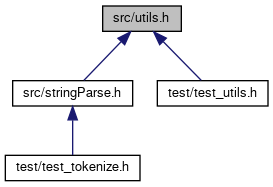
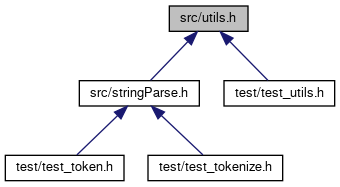
deploy: d19eb137d677fa6cfca0976ccbeda235902dd45f

diff --git a/test__token_8h_source.html b/test__token_8h_source.html
@@ -1,0 +1,104 @@
+<!DOCTYPE html PUBLIC "-//W3C//DTD XHTML 1.0 Transitional//EN" "https://www.w3.org/TR/xhtml1/DTD/xhtml1-transitional.dtd">
+<html xmlns="http://www.w3.org/1999/xhtml">
+<head>
+<meta http-equiv="Content-Type" content="text/xhtml;charset=UTF-8"/>
+<meta http-equiv="X-UA-Compatible" content="IE=9"/>
+<meta name="generator" content="Doxygen 1.9.1"/>
+<meta name="viewport" content="width=device-width, initial-scale=1"/>
+<title>C Project Template: test/test_token.h Source File</title>
+<link href="tabs.css" rel="stylesheet" type="text/css"/>
+<script type="text/javascript" src="jquery.js"></script>
+<script type="text/javascript" src="dynsections.js"></script>
+<link href="search/search.css" rel="stylesheet" type="text/css"/>
+<script type="text/javascript" src="search/searchdata.js"></script>
+<script type="text/javascript" src="search/search.js"></script>
+<link href="doxygen.css" rel="stylesheet" type="text/css" />
+</head>
+<body>
+<div id="top"><!-- do not remove this div, it is closed by doxygen! -->
+<div id="titlearea">
+<table cellspacing="0" cellpadding="0">
+ <tbody>
+ <tr style="height: 56px;">
+  <td id="projectalign" style="padding-left: 0.5em;">
+   <div id="projectname">C Project Template
+   </div>
+  </td>
+ </tr>
+ </tbody>
+</table>
+</div>
+<!-- end header part -->
+<!-- Generated by Doxygen 1.9.1 -->
+<script type="text/javascript">
+/* @license magnet:?xt=urn:btih:cf05388f2679ee054f2beb29a391d25f4e673ac3&amp;dn=gpl-2.0.txt GPL-v2 */
+var searchBox = new SearchBox("searchBox", "search",false,'Search','.html');
+/* @license-end */
+</script>
+<script type="text/javascript" src="menudata.js"></script>
+<script type="text/javascript" src="menu.js"></script>
+<script type="text/javascript">
+/* @license magnet:?xt=urn:btih:cf05388f2679ee054f2beb29a391d25f4e673ac3&amp;dn=gpl-2.0.txt GPL-v2 */
+$(function() {
+  initMenu('',true,false,'search.php','Search');
+  $(document).ready(function() { init_search(); });
+});
+/* @license-end */</script>
+<div id="main-nav"></div>
+<!-- window showing the filter options -->
+<div id="MSearchSelectWindow"
+     onmouseover="return searchBox.OnSearchSelectShow()"
+     onmouseout="return searchBox.OnSearchSelectHide()"
+     onkeydown="return searchBox.OnSearchSelectKey(event)">
+</div>
+
+<!-- iframe showing the search results (closed by default) -->
+<div id="MSearchResultsWindow">
+<iframe src="javascript:void(0)" frameborder="0" 
+        name="MSearchResults" id="MSearchResults">
+</iframe>
+</div>
+
+<div id="nav-path" class="navpath">
+  <ul>
+<li class="navelem"><a class="el" href="dir_13e138d54eb8818da29c3992edef070a.html">test</a></li>  </ul>
+</div>
+</div><!-- top -->
+<div class="header">
+  <div class="headertitle">
+<div class="title">test_token.h</div>  </div>
+</div><!--header-->
+<div class="contents">
+<div class="fragment"><div class="line"><a name="l00001"></a><span class="lineno">    1</span>&#160;<span class="preprocessor">#ifndef TEST_TOKEN_H</span></div>
+<div class="line"><a name="l00002"></a><span class="lineno">    2</span>&#160;<span class="preprocessor">#define TEST_TOKEN_H</span></div>
+<div class="line"><a name="l00003"></a><span class="lineno">    3</span>&#160; </div>
+<div class="line"><a name="l00004"></a><span class="lineno">    4</span>&#160;<span class="preprocessor">#include &quot;acutest.h&quot;</span></div>
+<div class="line"><a name="l00005"></a><span class="lineno">    5</span>&#160;<span class="preprocessor">#include &quot;stringParse.h&quot;</span></div>
+<div class="line"><a name="l00006"></a><span class="lineno">    6</span>&#160;<span class="preprocessor">#include &lt;string.h&gt;</span></div>
+<div class="line"><a name="l00007"></a><span class="lineno">    7</span>&#160; </div>
+<div class="line"><a name="l00008"></a><span class="lineno">    8</span>&#160;<span class="keywordtype">void</span> test_token(){</div>
+<div class="line"><a name="l00009"></a><span class="lineno">    9</span>&#160;    <span class="keywordtype">char</span> message[] = <span class="stringliteral">&quot;Dsa Final p-+ro%ject {} \&quot; poopoo&quot;</span>;</div>
+<div class="line"><a name="l00010"></a><span class="lineno">   10</span>&#160;    <span class="keywordtype">int</span> n_token = 4;</div>
+<div class="line"><a name="l00011"></a><span class="lineno">   11</span>&#160;    <span class="keywordtype">char</span> tokenStr[4][300] ={ </div>
+<div class="line"><a name="l00012"></a><span class="lineno">   12</span>&#160;        <span class="stringliteral">&quot;dsa&quot;</span>,</div>
+<div class="line"><a name="l00013"></a><span class="lineno">   13</span>&#160;        <span class="stringliteral">&quot;final&quot;</span>,</div>
+<div class="line"><a name="l00014"></a><span class="lineno">   14</span>&#160;        <span class="stringliteral">&quot;project&quot;</span>,</div>
+<div class="line"><a name="l00015"></a><span class="lineno">   15</span>&#160;        <span class="stringliteral">&quot;poopoo&quot;</span></div>
+<div class="line"><a name="l00016"></a><span class="lineno">   16</span>&#160;    };</div>
+<div class="line"><a name="l00017"></a><span class="lineno">   17</span>&#160;    <span class="keywordtype">char</span> token[2048];</div>
+<div class="line"><a name="l00018"></a><span class="lineno">   18</span>&#160;    <span class="keywordtype">int</span> iStr = 0;</div>
+<div class="line"><a name="l00019"></a><span class="lineno">   19</span>&#160; </div>
+<div class="line"><a name="l00020"></a><span class="lineno">   20</span>&#160;    <span class="keywordflow">for</span> (<span class="keywordtype">int</span> i=0;i&lt;n_token;i++){</div>
+<div class="line"><a name="l00021"></a><span class="lineno">   21</span>&#160;        iStr = popToken(message, token, iStr);</div>
+<div class="line"><a name="l00022"></a><span class="lineno">   22</span>&#160;        TEST_CHECK(strcmp(token, tokenStr[i]) == 0);</div>
+<div class="line"><a name="l00023"></a><span class="lineno">   23</span>&#160;        TEST_MSG(<span class="stringliteral">&quot;Expected: %s ; Got: %s (%d)\n&quot;</span>,tokenStr[i], token, iStr);</div>
+<div class="line"><a name="l00024"></a><span class="lineno">   24</span>&#160;    }</div>
+<div class="line"><a name="l00025"></a><span class="lineno">   25</span>&#160;}</div>
+<div class="line"><a name="l00026"></a><span class="lineno">   26</span>&#160;<span class="preprocessor">#endif</span></div>
+</div><!-- fragment --></div><!-- contents -->
+<!-- start footer part -->
+<hr class="footer"/><address class="footer"><small>
+Generated by&#160;<a href="https://www.doxygen.org/index.html"><img class="footer" src="doxygen.svg" width="104" height="31" alt="doxygen"/></a> 1.9.1
+</small></address>
+</body>
+</html>

diff --git a/files.html b/files.html
@@ -72,8 +72,9 @@ $(function() {
 <tr id="row_0_1_" class="even"><td class="entry"><span style="width:32px;display:inline-block;">&#160;</span><a href="stringParse_8h_source.html"><span class="icondoc"></span></a><b>stringParse.h</b></td><td class="desc"></td></tr>
 <tr id="row_0_2_"><td class="entry"><span style="width:32px;display:inline-block;">&#160;</span><a href="utils_8h_source.html"><span class="icondoc"></span></a><a class="el" href="utils_8h.html" target="_self">utils.h</a></td><td class="desc">General Utilities for C language </td></tr>
 <tr id="row_1_" class="even"><td class="entry"><span style="width:0px;display:inline-block;">&#160;</span><span id="arr_1_" class="arrow" onclick="toggleFolder('1_')">&#9660;</span><span id="img_1_" class="iconfopen" onclick="toggleFolder('1_')">&#160;</span><a class="el" href="dir_13e138d54eb8818da29c3992edef070a.html" target="_self">test</a></td><td class="desc"></td></tr>
-<tr id="row_1_0_"><td class="entry"><span style="width:32px;display:inline-block;">&#160;</span><a href="test__tokenize_8h_source.html"><span class="icondoc"></span></a><b>test_tokenize.h</b></td><td class="desc"></td></tr>
-<tr id="row_1_1_" class="even"><td class="entry"><span style="width:32px;display:inline-block;">&#160;</span><a href="test__utils_8h_source.html"><span class="icondoc"></span></a><b>test_utils.h</b></td><td class="desc"></td></tr>
+<tr id="row_1_0_"><td class="entry"><span style="width:32px;display:inline-block;">&#160;</span><a href="test__token_8h_source.html"><span class="icondoc"></span></a><b>test_token.h</b></td><td class="desc"></td></tr>
+<tr id="row_1_1_" class="even"><td class="entry"><span style="width:32px;display:inline-block;">&#160;</span><a href="test__tokenize_8h_source.html"><span class="icondoc"></span></a><b>test_tokenize.h</b></td><td class="desc"></td></tr>
+<tr id="row_1_2_"><td class="entry"><span style="width:32px;display:inline-block;">&#160;</span><a href="test__utils_8h_source.html"><span class="icondoc"></span></a><b>test_utils.h</b></td><td class="desc"></td></tr>
 </table>
 </div><!-- directory -->
 </div><!-- contents -->

diff --git a/utils_8h.html b/utils_8h.html
@@ -89,10 +89,11 @@ This graph shows which files directly or indirectly include this file:</div>
 <div class="dyncontent">
 <div class="center"><img src="utils_8h__dep__incl.png" border="0" usemap="#asrc_2utils_8hdep" alt=""/></div>
 <map name="asrc_2utils_8hdep" id="asrc_2utils_8hdep">
-<area shape="rect" title="General Utilities for C language." alt="" coords="103,5,181,32"/>
-<area shape="rect" href="stringParse_8h_source.html" title=" " alt="" coords="13,80,133,107"/>
-<area shape="rect" href="test__utils_8h_source.html" title=" " alt="" coords="157,80,268,107"/>
-<area shape="rect" href="test__tokenize_8h_source.html" title=" " alt="" coords="5,155,140,181"/>
+<area shape="rect" title="General Utilities for C language." alt="" coords="169,5,248,32"/>
+<area shape="rect" href="stringParse_8h_source.html" title=" " alt="" coords="79,80,199,107"/>
+<area shape="rect" href="test__utils_8h_source.html" title=" " alt="" coords="224,80,335,107"/>
+<area shape="rect" href="test__token_8h_source.html" title=" " alt="" coords="5,155,124,181"/>
+<area shape="rect" href="test__tokenize_8h_source.html" title=" " alt="" coords="148,155,283,181"/>
 </map>
 </div>
 </div>
